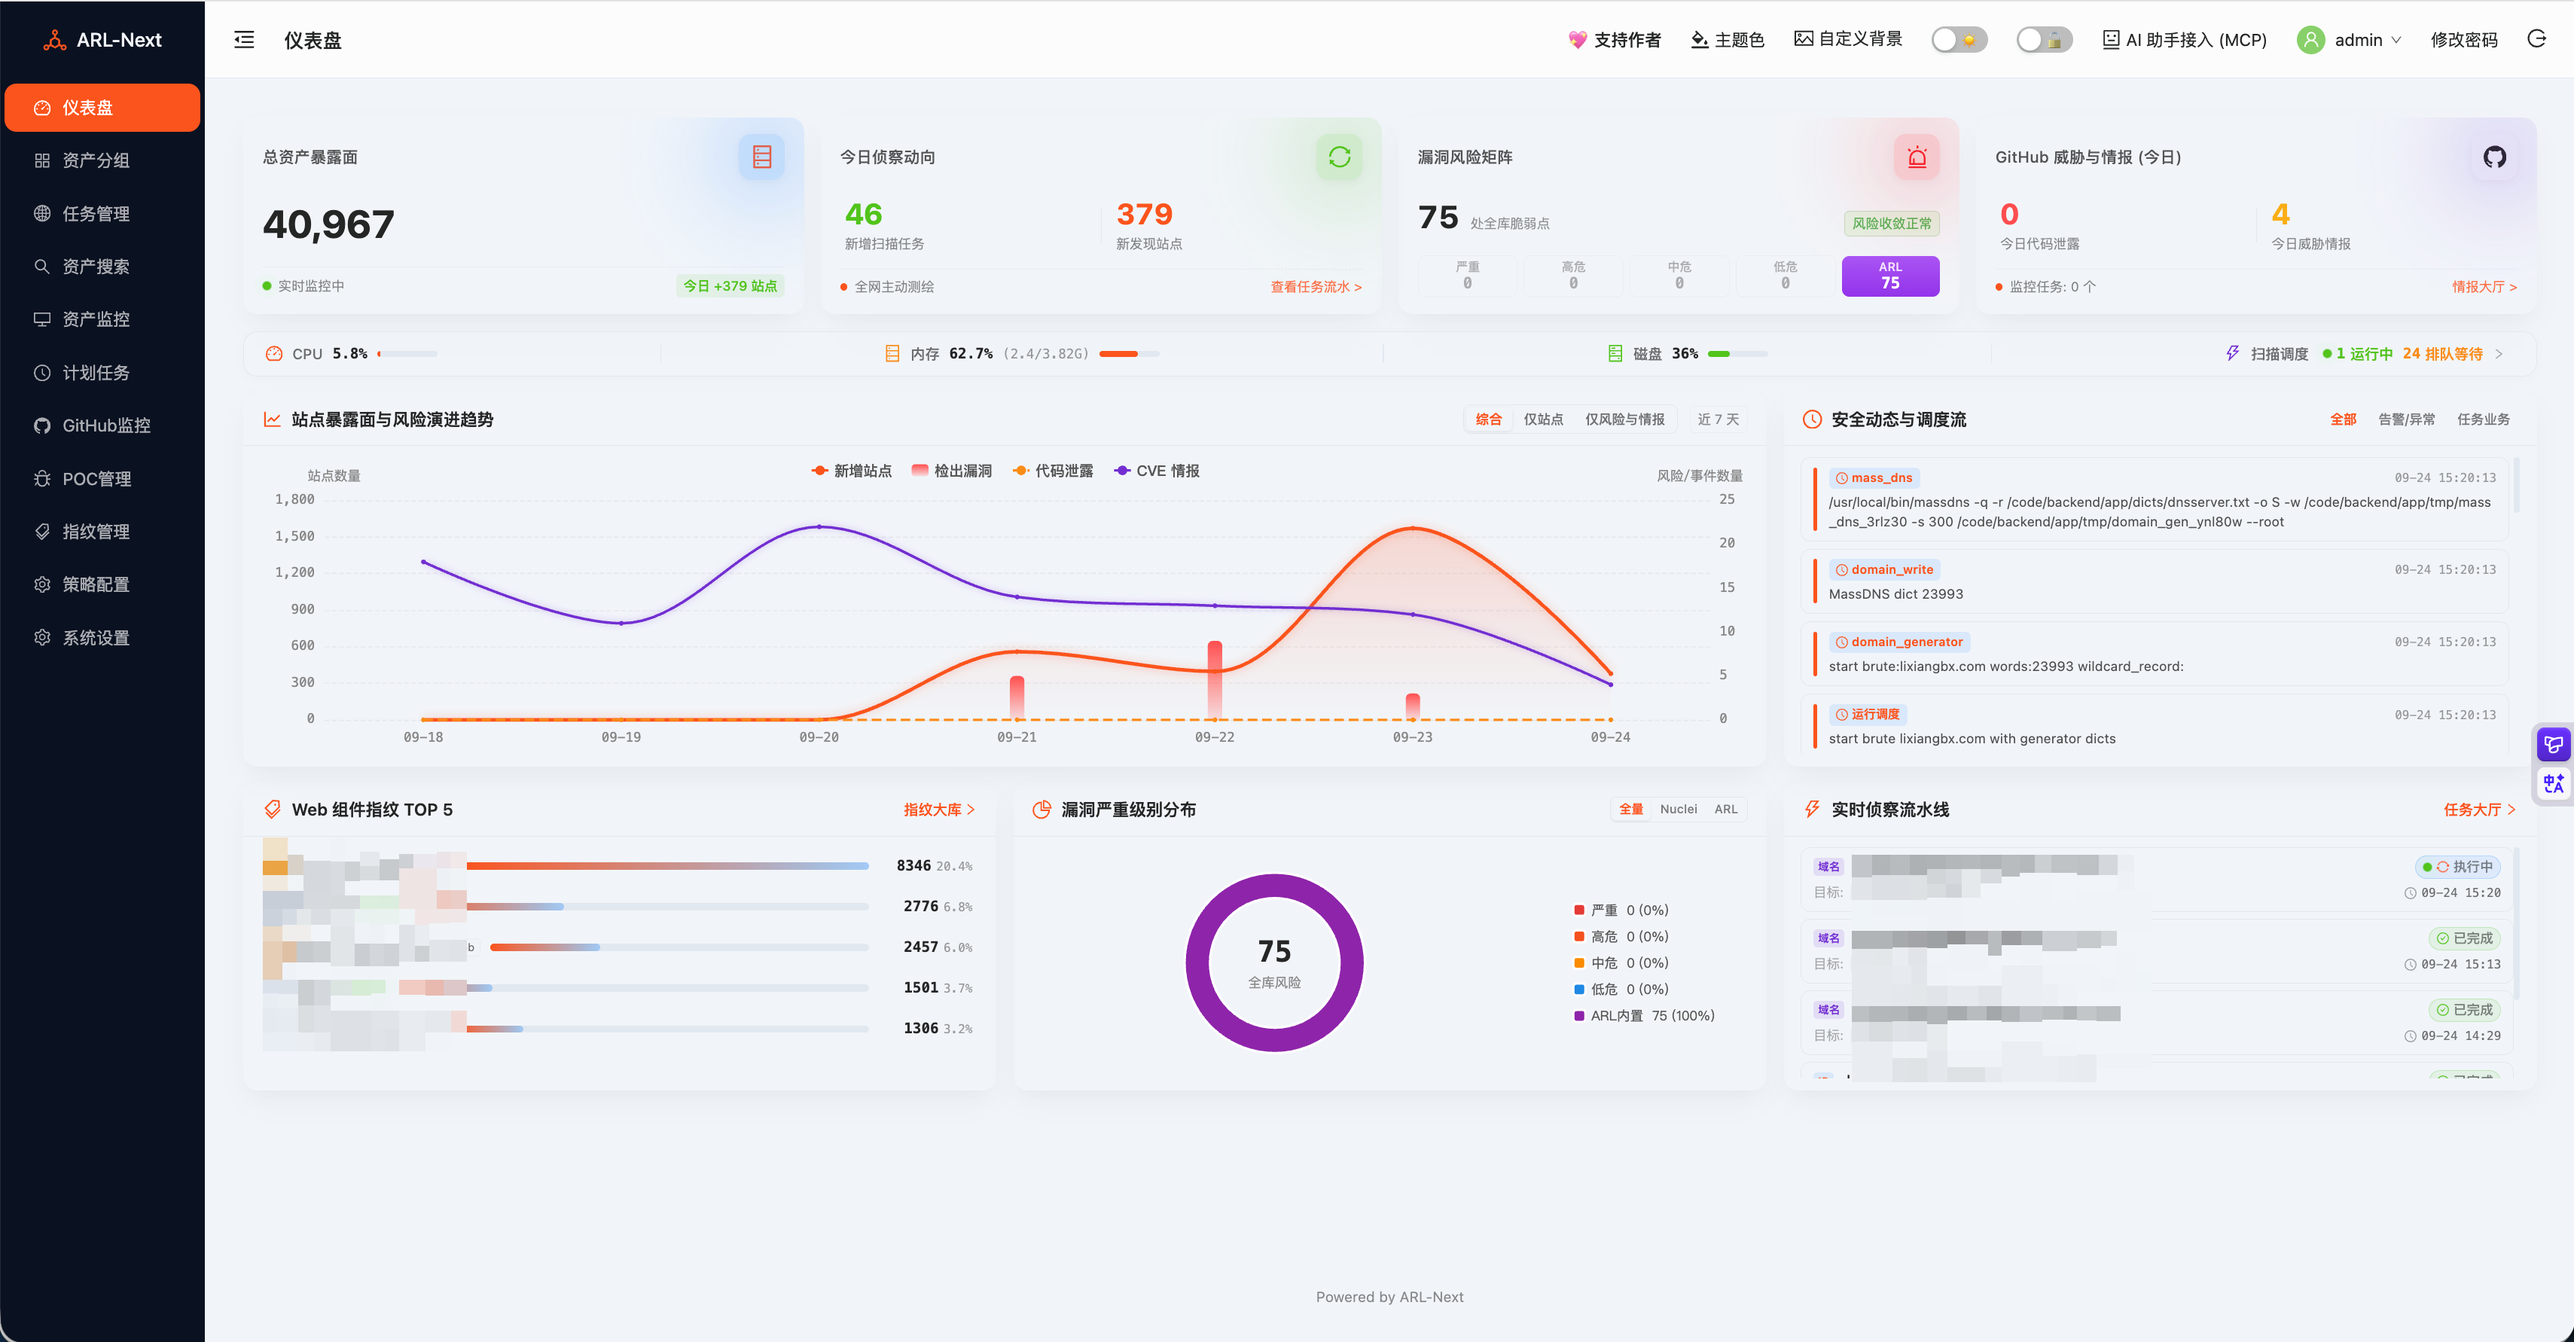
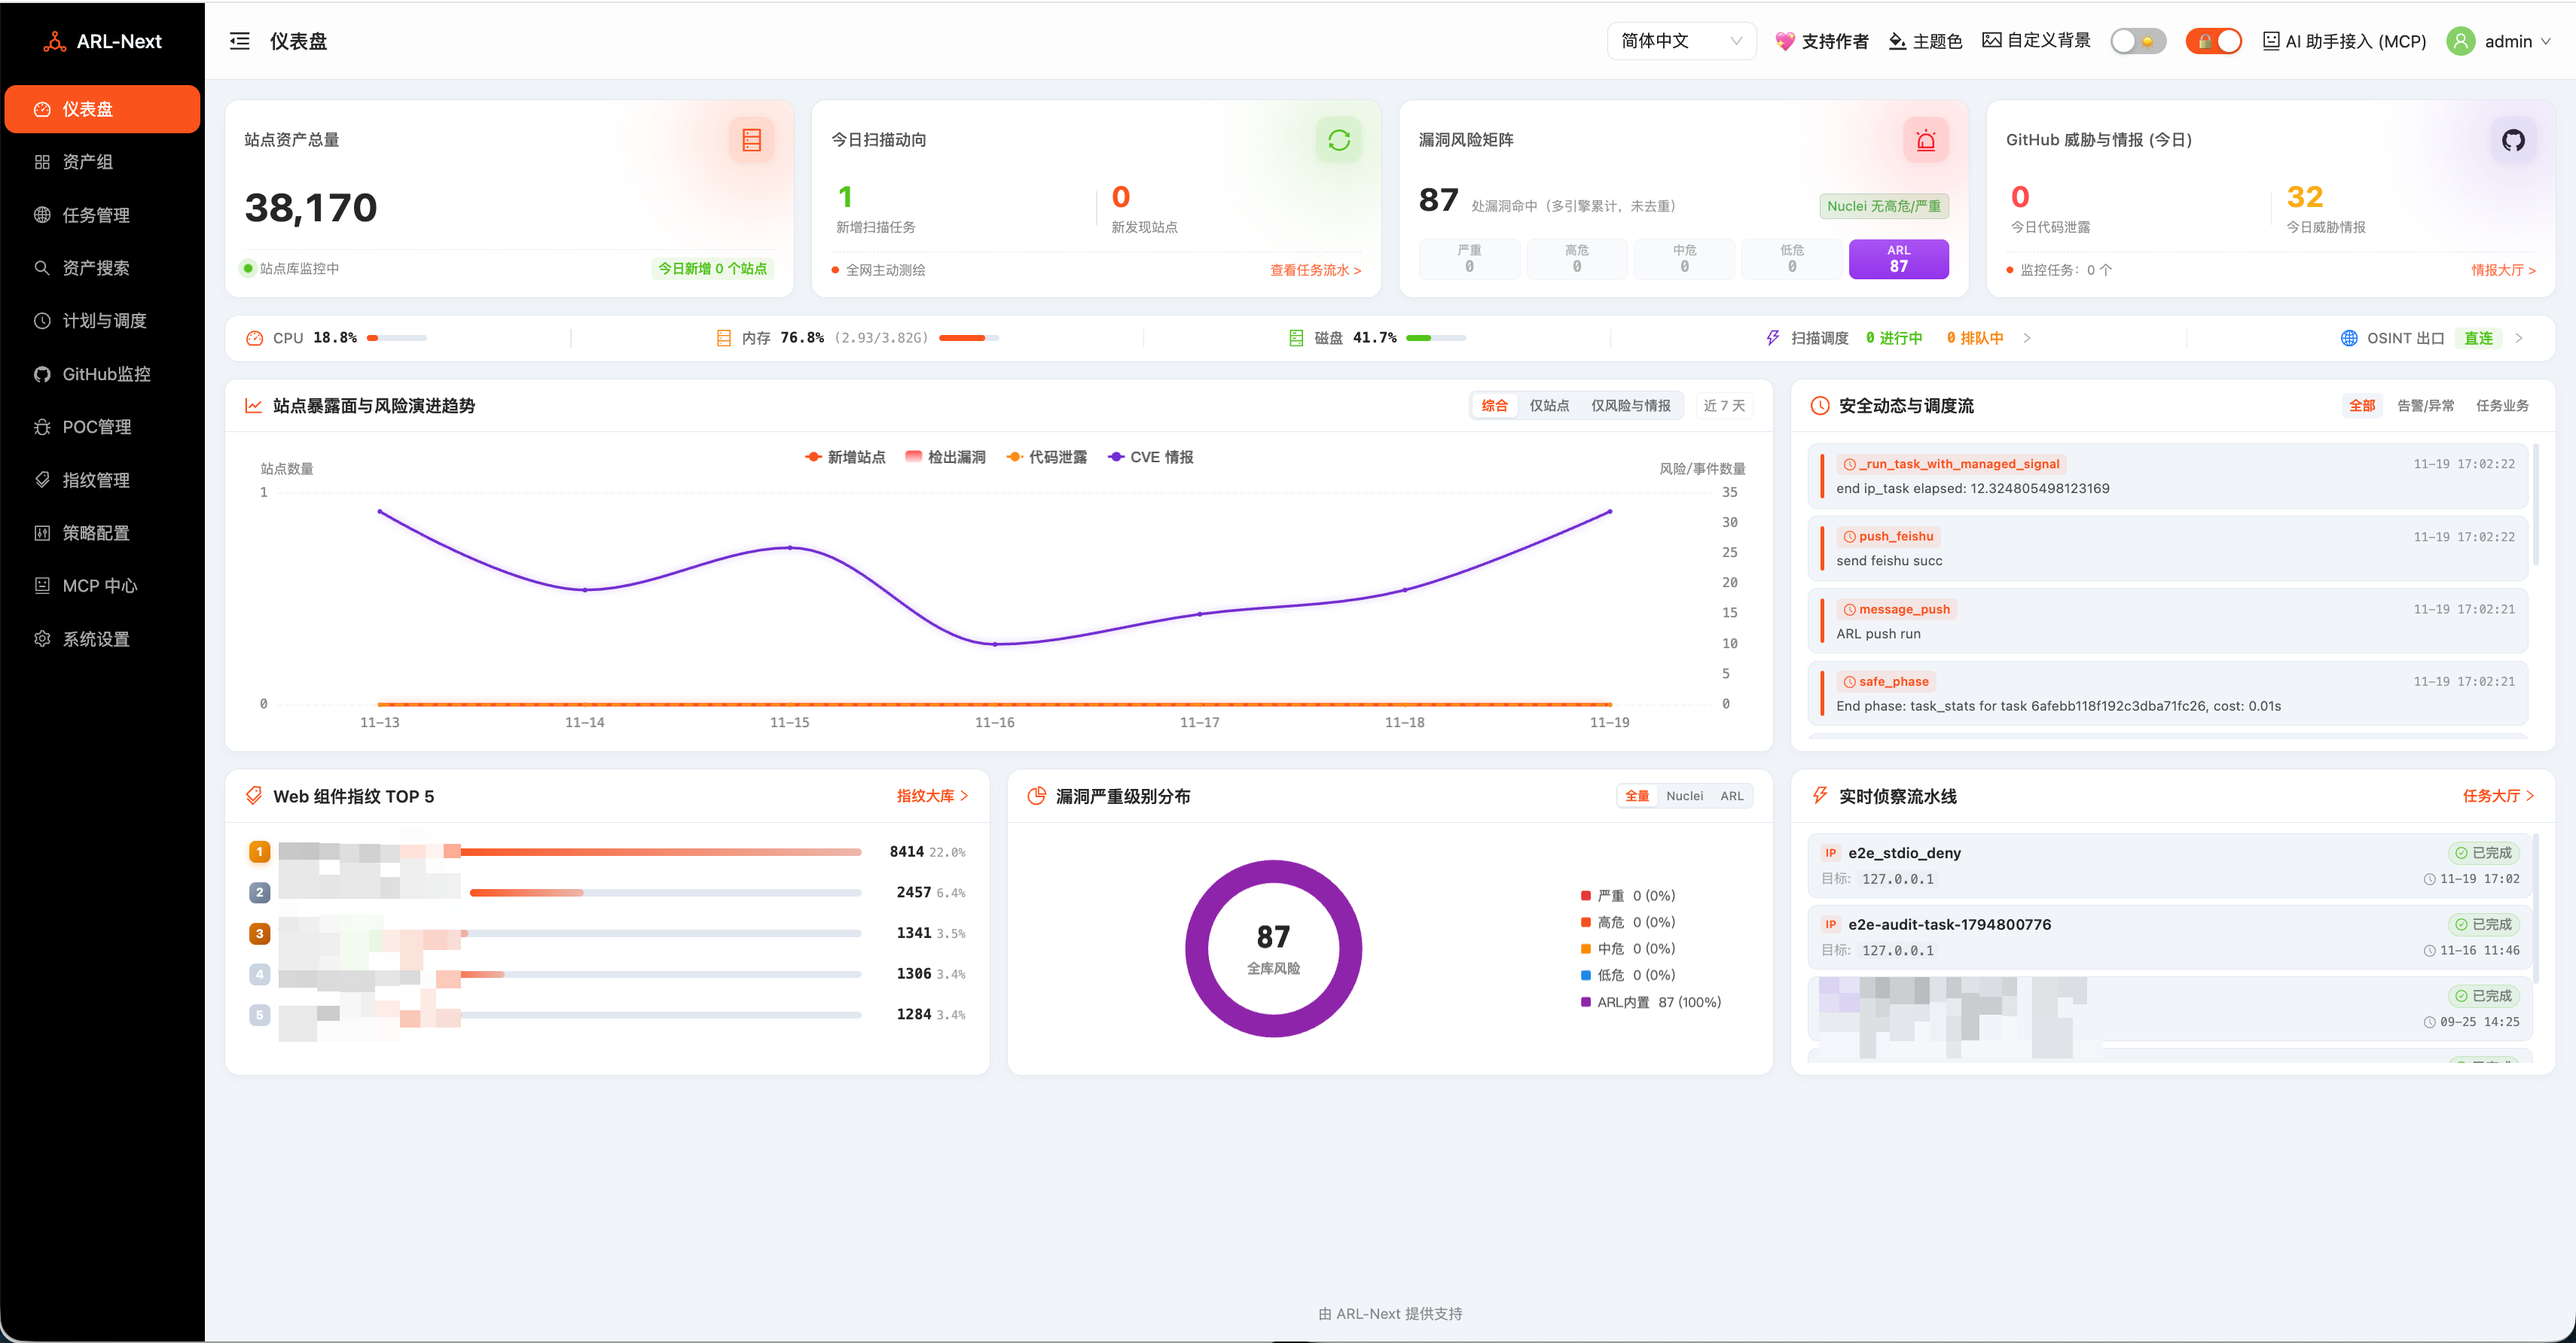
docs(readme,tools): 更新仪表盘与快速入门截图并修复社交预览图排版裁切 / Refresh dashboard and quickstart screenshots and fix social preview layout clipping
- 替换 img/dashboard.png 并同步更新 img/quickstart-dashboard.png 为最新仪表盘界面（补齐右下角边缘脱敏、转为 RGB 无损 PNG 并剥离 EXIF 元数据）
- 修复 tools/make_social_preview.py 中左侧副标题与徽章被预览卡片遮挡、右侧截图居中裁切导致指标卡截断的问题，并重生成 img/social-preview.png

- Replace img/dashboard.png and sync img/quickstart-dashboard.png with the latest dashboard UI (clean bottom-right edge masking, RGB lossless PNG with EXIF stripped)
- Fix left subtitle/badge overlap and right KPI card cropping in tools/make_social_preview.py, and regenerate img/social-preview.png

diff --git a/tools/make_social_preview.py b/tools/make_social_preview.py
@@ -54,11 +54,10 @@ def rounded(img, radius):
     return img
 
 
-def pill(d, x, y, text, fnt, fg, bg=None, outline=None):
+def pill(d, x, y, text, fnt, fg, bg=None, outline=None, pad_left=34, pad_right=16, pad_y=9):
     bbox = d.textbbox((0, 0), text, font=fnt)
     tw, th = bbox[2] - bbox[0], bbox[3] - bbox[1]
-    px, py = 34, 9  # left pad reserves room for the dot
-    w, h = tw + px + 16, th + py * 2
+    w, h = tw + pad_left + pad_right, th + pad_y * 2
     if bg is not None:
         d.rounded_rectangle([x, y, x + w, y + h], h // 2, fill=bg)
     if outline is not None:
@@ -87,48 +86,52 @@ def main():
     base.paste(Image.blend(Image.new("RGB", (560, 340), BG_BOT), glow2, 0.28), (880, 420))
     d = ImageDraw.Draw(base)
 
-    f_title, f_sub, f_tag, f_badge, f_ver = font(72), font(24), font(22, cn=True), font(19), font(20)
-    d.text((64, 66), "ARL-Next", font=f_title, fill=TEXT_MAIN)
-    d.text((64, 156), "Modern Attack Surface Reconnaissance", font=f_sub, fill=TEXT_SUB)
-    d.text((64, 190), "& Asset Monitoring Platform", font=f_sub, fill=TEXT_SUB)
-    d.line([(64, 240), (240, 240)], fill=ACCENT, width=4)
+    left_x = 56
+    f_title, f_sub, f_tag, f_badge, f_ver = font(70), font(22), font(22, cn=True), font(18), font(20)
+    d.text((left_x, 66), "ARL-Next", font=f_title, fill=TEXT_MAIN)
+    d.text((left_x, 154), "Modern Attack Surface Reconnaissance", font=f_sub, fill=TEXT_SUB)
+    d.text((left_x, 186), "& Asset Monitoring Platform", font=f_sub, fill=TEXT_SUB)
+    d.line([(left_x, 234), (left_x + 176, 234)], fill=ACCENT, width=4)
 
     # selling points as filled pills (readable at thumbnail size)
     tags = ["企业资产关联", "异步解耦调度", "原生 MCP 集成", "容器化开箱部署"]
-    y = 258
+    y = 256
     for tag in tags:
-        w, h = pill(d, 64, y, tag, f_tag, TEXT_TAG, bg=PILL_BG)
-        d.ellipse([64 + 14, y + h // 2 - 5, 64 + 24, y + h // 2 + 5], fill=ACCENT)
-        d.text((64 + 34, y + 7), tag, font=f_tag, fill=TEXT_TAG)
+        w, h = pill(d, left_x, y, tag, f_tag, TEXT_TAG, bg=PILL_BG)
+        d.ellipse([left_x + 14, y + h // 2 - 5, left_x + 24, y + h // 2 + 5], fill=ACCENT)
+        d.text((left_x + 34, y + 7), tag, font=f_tag, fill=TEXT_TAG)
         y += h + 12
 
     # capability badges (timeless: no version number, see docstring)
     badges = ["Docker-Ready", "MCP-Native", "GPL-3.0"]
-    bx = 64
-    by = y + 8
+    bx = left_x
+    by = y + 10
     for b in badges:
-        w, h = pill(d, bx, by, b, f_badge, ACCENT, outline=ACCENT)
-        d.text((bx + 25, by + 8), b, font=f_badge, fill=ACCENT)
+        w, h = pill(d, bx, by, b, f_badge, ACCENT, outline=ACCENT, pad_left=16, pad_right=16, pad_y=9)
+        bbox = d.textbbox((0, 0), b, font=f_badge)
+        tw, th = bbox[2] - bbox[0], bbox[3] - bbox[1]
+        d.text((bx + (w - tw) // 2 - bbox[0], by + (h - th) // 2 - bbox[1]), b, font=f_badge, fill=ACCENT)
         bx += w + 10
-    d.text((64, 572), "github.com/owl234/ARL-Next", font=f_ver, fill=TEXT_DIM)
+    d.text((left_x, 572), "github.com/owl234/ARL-Next", font=f_ver, fill=TEXT_DIM)
 
-    # screenshot card with drop shadow
+    # screenshot card with drop shadow (full aspect-ratio fit, no edge clipping)
     shot = Image.open(SRC).convert("RGB")
-    sw, sh = 700, 470
-    scale = max(sw / shot.width, sh / shot.height)
-    shot = shot.resize((int(shot.width * scale), int(shot.height * scale)))
-    x = (shot.width - sw) // 2
-    shot = shot.crop((x, 0, x + sw, sh))
-    shot = rounded(shot, 18)
+    card_x = 508
+    sw = W - card_x - left_x - 8  # symmetric right margin matching left_x
+    sh = round(sw * shot.height / shot.width)
+    card_y = (H - (sh + 8)) // 2
+    resample = getattr(Image, "Resampling", Image).LANCZOS
+    shot = shot.resize((sw, sh), resample)
+    shot = rounded(shot, 16)
     sh_w, sh_h = sw + 60, sh + 60
     shadow = Image.new("L", (sh_w, sh_h), 0)
-    ImageDraw.Draw(shadow).rounded_rectangle([0, 0, sh_w, sh_h], 26, fill=110)
+    ImageDraw.Draw(shadow).rounded_rectangle([0, 0, sh_w, sh_h], 24, fill=110)
     shadow = shadow.filter(ImageFilter.GaussianBlur(28))
-    base.paste(Image.new("RGB", (sh_w, sh_h), (0, 0, 0)), (512 - 22, 81 - 14), shadow)
+    base.paste(Image.new("RGB", (sh_w, sh_h), (0, 0, 0)), (card_x - 22, card_y - 14), shadow)
     card = Image.new("RGBA", (sw + 8, sh + 8), (0, 0, 0, 0))
-    ImageDraw.Draw(card).rounded_rectangle([0, 0, sw + 8, sh + 8], 22, outline=ACCENT, width=3)
-    base.paste(card, (512, 81), card)
-    base.paste(shot, (516, 85), shot)
+    ImageDraw.Draw(card).rounded_rectangle([0, 0, sw + 8, sh + 8], 20, outline=ACCENT, width=3)
+    base.paste(card, (card_x, card_y), card)
+    base.paste(shot, (card_x + 4, card_y + 4), shot)
 
     DST.parent.mkdir(parents=True, exist_ok=True)
     DST.unlink(missing_ok=True)
